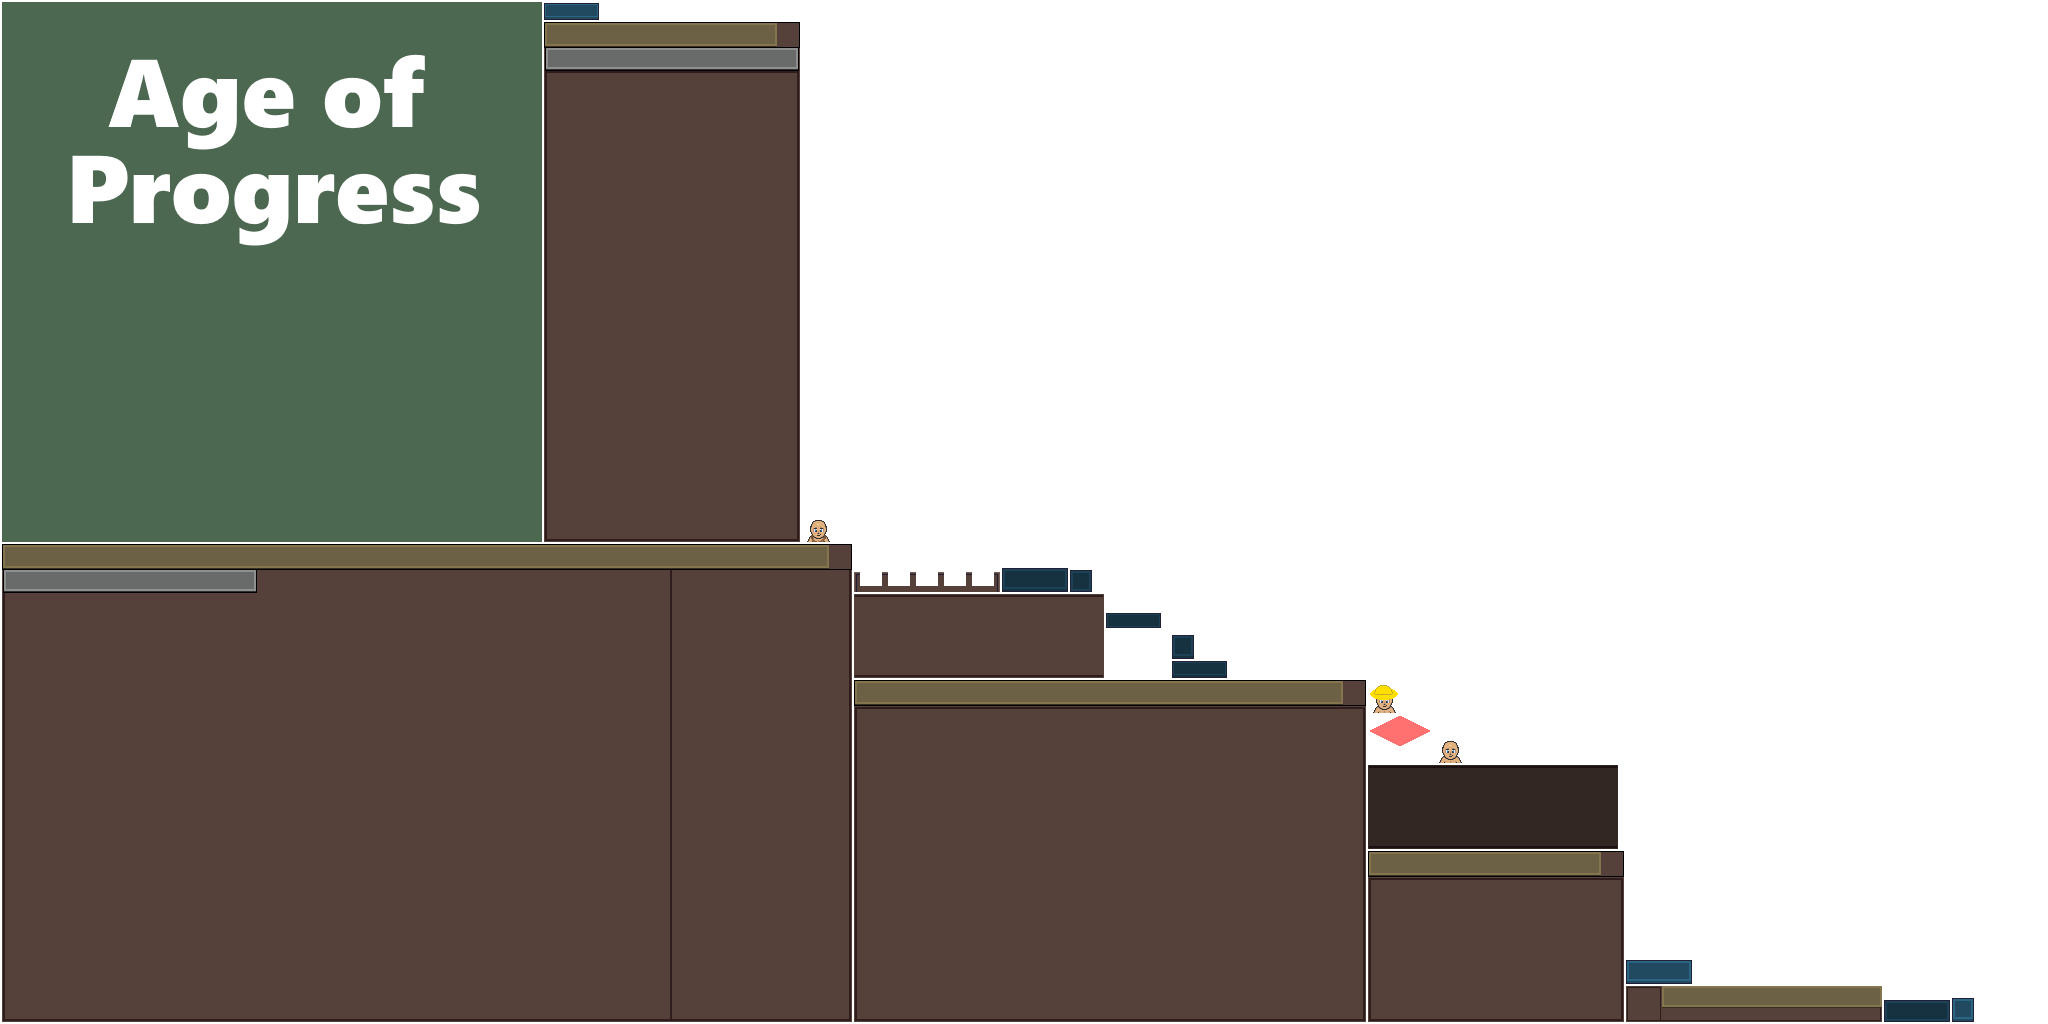
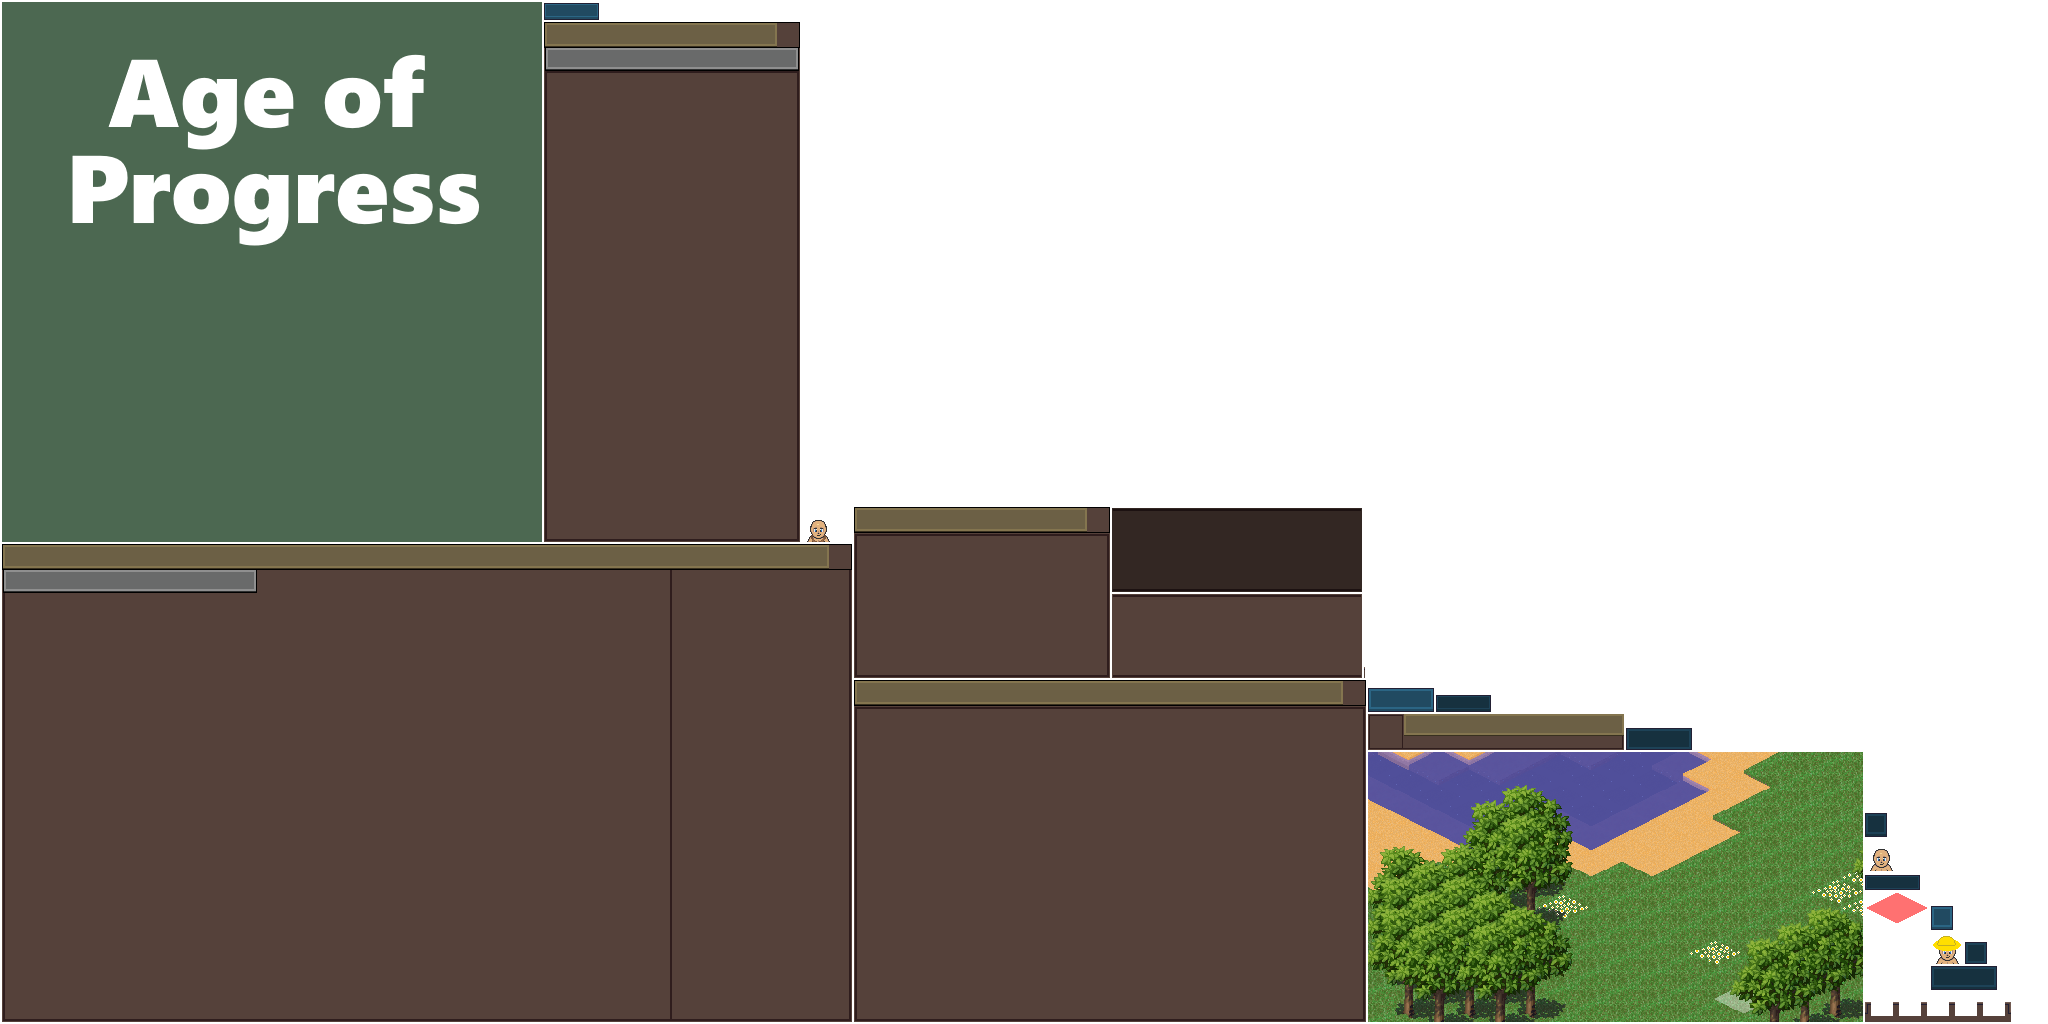
Added Discord Button

Changed region(s): [[0.4062, 0.4688, 1.0, 1.0]]

diff --git a/Age Of Progress/core/src/dev/codewizz/gfx/gui/menus/MainMenu.java b/Age Of Progress/core/src/dev/codewizz/gfx/gui/menus/MainMenu.java
@@ -1,13 +1,16 @@
 package dev.codewizz.gfx.gui.menus;
 
 import java.awt.Rectangle;
+import java.net.URL;
 
 import com.badlogic.gdx.Gdx;
 
 import dev.codewizz.gfx.gui.UIButton;
+import dev.codewizz.gfx.gui.UIIcon;
 import dev.codewizz.gfx.gui.UILayer;
 import dev.codewizz.gfx.gui.UIMenu;
 import dev.codewizz.main.Main;
+import dev.codewizz.utils.Utils;
 import dev.codewizz.world.World;
 
 public class MainMenu extends UIMenu {
@@ -23,7 +26,18 @@ public class MainMenu extends UIMenu {
 		int w = Gdx.graphics.getWidth() - Gdx.graphics.getHeight();
 		int startX = Gdx.graphics.getHeight();
 		
-		
+		UIIcon discordIcon = new UIIcon("discord-icon", UILayer.WIDTH - 22 * UILayer.SCALE - 20, 20, 22, 24,
+				"discord-icon") {
+
+			@Override
+			protected void onDeClick() {
+				try {
+					Utils.openWebpage(new URL("https://discord.com/invite/UFEEWqP98w"));
+				} catch (Exception e) { }
+			}
+
+		};
+		elements.add(discordIcon);
 		
 		elements.add(new UIButton("start-button", startX + w/2 - (99*UILayer.SCALE)/2, Gdx.graphics.getHeight()/2 - (36/2)*UILayer.SCALE + 120*UILayer.SCALE, 99, 36, "Load World") {
 			@Override
@@ -33,10 +47,10 @@ public class MainMenu extends UIMenu {
 				
 				boolean hideButtons = !Main.inst.world.showInfoSartMenu;
 				
-				Main.inst.renderer.ui.getElement("manage-icon").setAvailable(hideButtons);;
-				Main.inst.renderer.ui.getElement("path-icon").setAvailable(hideButtons);;
-				Main.inst.renderer.ui.getElement("people-icon").setAvailable(hideButtons);;
-				Main.inst.renderer.ui.getElement("tool-icon").setAvailable(hideButtons);;
+				Main.inst.renderer.ui.getElement("manage-icon").setAvailable(hideButtons);
+				Main.inst.renderer.ui.getElement("path-icon").setAvailable(hideButtons);
+				Main.inst.renderer.ui.getElement("people-icon").setAvailable(hideButtons);
+				Main.inst.renderer.ui.getElement("tool-icon").setAvailable(hideButtons);
 			}
 		});
 		
@@ -46,10 +60,10 @@ public class MainMenu extends UIMenu {
 				
 				Main.inst.openWorld(new World());
 				
-				Main.inst.renderer.ui.getElement("manage-icon").setAvailable(false);;
-				Main.inst.renderer.ui.getElement("path-icon").setAvailable(false);;
-				Main.inst.renderer.ui.getElement("people-icon").setAvailable(false);;
-				Main.inst.renderer.ui.getElement("tool-icon").setAvailable(false);;
+				Main.inst.renderer.ui.getElement("manage-icon").setAvailable(false);
+				Main.inst.renderer.ui.getElement("path-icon").setAvailable(false);
+				Main.inst.renderer.ui.getElement("people-icon").setAvailable(false);
+				Main.inst.renderer.ui.getElement("tool-icon").setAvailable(false);
 			}
 		});
 		

diff --git a/Age Of Progress/core/src/dev/codewizz/utils/Logger.java b/Age Of Progress/core/src/dev/codewizz/utils/Logger.java
@@ -22,7 +22,7 @@ public class Logger {
 		try {
 			LocalDateTime now = LocalDateTime.now();
 			String date = DATE_FORMAT.format(now);
-			currentFile = Gdx.files.external(Assets.pathFolderLogs + "LOG-" + date + ".txt").file();
+			//currentFile = Gdx.files.external(Assets.pathFolderLogs + "LOG-" + date + ".txt").file();
 			
 			if(currentFile.createNewFile()) {
 				writer = new BufferedWriter(new FileWriter(currentFile));
@@ -33,7 +33,6 @@ public class Logger {
 			}
 		} catch (Exception e) {
 			Logger.error("Couldn't create a log file!");
-			e.printStackTrace();
 		}
 	}
 	
@@ -50,9 +49,9 @@ public class Logger {
 	private static String prefix() {
 		Thread t = Thread.currentThread();
 		LocalTime now = LocalTime.now();
-		String s = t.getStackTrace()[2].getFileName().substring(0, t.getStackTrace()[2].getFileName().length()-5);
+		String s = t.getStackTrace()[3].getFileName().substring(0, t.getStackTrace()[3].getFileName().length()-5);
 		String time = TIME_FORMAT.format(now);
-		return "[" + time + "] [" + t.getName() + ":" + s + ":" + t.getStackTrace()[2].getLineNumber() + "] ";
+		return "[" + time + "] [" + t.getName() + ":" + s + ":" + t.getStackTrace()[3].getLineNumber() + "] ";
 	}
 	
 	public static void error(String message) {

diff --git a/Age Of Progress/core/src/dev/codewizz/utils/Assets.java b/Age Of Progress/core/src/dev/codewizz/utils/Assets.java
@@ -21,14 +21,14 @@ public class Assets {
 	public static File folderSaves;
 	public static File folderData;
 	public static File folderLogs;
+	public static File folderScreenshots;
 	
 	public static final String pathFolderAgeOfProgress = "ageofprogress/";
 	public static final String pathFolderMods = pathFolderAgeOfProgress + "/mods/";
 	public static final String pathFolderSaves = pathFolderAgeOfProgress + "/saves/";
 	public static final String pathFolderData = pathFolderAgeOfProgress + "/data/";
 	public static final String pathFolderLogs = pathFolderData + "/logs/";
-	
-	
+	public static final String pathFolderScreenshots = pathFolderAgeOfProgress + "/screenshots/";
 	
 	public static HashMap<String, Sprite> sprites = new HashMap<>();
 	public static HashMap<String, TextureAtlas> atlasses = new HashMap<>();
@@ -42,6 +42,7 @@ public class Assets {
 			folderSaves = createFolder(pathFolderSaves);
 			folderData = createFolder(pathFolderData);
 			folderLogs = createFolder(pathFolderLogs);
+			folderScreenshots = createFolder(pathFolderScreenshots);
 		} catch(Exception e) {
 			Logger.error("Couldn't find main game files: ");
 			Logger.error("Game will load, but saves, settings and mods will not be loaded.");

diff --git a/Age Of Progress/core/src/dev/codewizz/input/KeyInput.java b/Age Of Progress/core/src/dev/codewizz/input/KeyInput.java
@@ -12,6 +12,7 @@ import com.badlogic.gdx.graphics.Pixmap;
 import com.badlogic.gdx.graphics.PixmapIO;
 
 import dev.codewizz.main.Main;
+import dev.codewizz.utils.Assets;
 import dev.codewizz.world.GameObject;
 import dev.codewizz.world.World;
 import dev.codewizz.world.items.Recipe;
@@ -117,7 +118,7 @@ public class KeyInput implements InputProcessor {
 		
 		
 		// create a screenshot
-		if(key == Input.Keys.C) {
+		if(key == Input.Keys.F2) {
 			Pixmap pixmap = Pixmap.createFromFrameBuffer(0, 0, Gdx.graphics.getBackBufferWidth(), Gdx.graphics.getBackBufferHeight());
 			ByteBuffer pixels = pixmap.getPixels();
 
@@ -130,7 +131,7 @@ public class KeyInput implements InputProcessor {
 			DateTimeFormatter dtf = DateTimeFormatter.ofPattern("yyyy-MM-dd-HH-mm-ss");  
 			LocalDateTime now = LocalDateTime.now();  
 			
-			PixmapIO.writePNG(Gdx.files.external("\\Desktop\\Java Coding\\Eclipse\\Age-of-Progress\\LibGDX\\sc_" + dtf.format(now) + ".png"), pixmap, Deflater.DEFAULT_COMPRESSION, true);
+			PixmapIO.writePNG(Gdx.files.external(Assets.pathFolderScreenshots + "sc_" + dtf.format(now) + ".png"), pixmap, Deflater.DEFAULT_COMPRESSION, true);
 			pixmap.dispose();
 
 			return true;

diff --git a/Age Of Progress/core/src/dev/codewizz/utils/Utils.java b/Age Of Progress/core/src/dev/codewizz/utils/Utils.java
@@ -1,6 +1,10 @@
 package dev.codewizz.utils;
 
+import java.awt.Desktop;
 import java.io.File;
+import java.net.URI;
+import java.net.URISyntaxException;
+import java.net.URL;
 import java.nio.file.Files;
 import java.nio.file.Paths;
 import java.util.Random;
@@ -143,5 +147,27 @@ public class Utils {
 		}
 		
 		return extension;
+	}
+	
+	public static boolean openWebpage(URI uri) {
+	    Desktop desktop = Desktop.isDesktopSupported() ? Desktop.getDesktop() : null;
+	    if (desktop != null && desktop.isSupported(Desktop.Action.BROWSE)) {
+	        try {
+	            desktop.browse(uri);
+	            return true;
+	        } catch (Exception e) {
+	            e.printStackTrace();
+	        }
+	    }
+	    return false;
+	}
+
+	public static boolean openWebpage(URL url) {
+	    try {
+	        return openWebpage(url.toURI());
+	    } catch (URISyntaxException e) {
+	        e.printStackTrace();
+	    }
+	    return false;
 	}
 }

diff --git a/Age Of Progress/core/src/dev/codewizz/main/Main.java b/Age Of Progress/core/src/dev/codewizz/main/Main.java
@@ -4,6 +4,7 @@ import com.badlogic.gdx.ApplicationAdapter;
 import com.badlogic.gdx.Gdx;
 import com.badlogic.gdx.InputMultiplexer;
 import com.badlogic.gdx.utils.ScreenUtils;
+import com.kotcrab.vis.ui.VisUI;
 
 import dev.codewizz.gfx.Renderer;
 import dev.codewizz.gfx.gui.layers.GameLayer;
@@ -48,6 +49,8 @@ public class Main extends ApplicationAdapter {
 		
 		Assets.create();
 		
+		VisUI.load();
+		
 		camera = new Camera();
 		renderer = new Renderer();
 		mouseInput = new MouseInput();
@@ -64,6 +67,8 @@ public class Main extends ApplicationAdapter {
 		handler.start();
 		
 		Logger.log("Start time: " + (float)(System.currentTimeMillis() - start) / 1000.0f + " Seconds");
+
+		
 	}
 	
 	public void setInputMultiplexer() {
@@ -147,7 +152,8 @@ public class Main extends ApplicationAdapter {
 	
 	@Override
 	public void dispose () {
-		Assets.dispose();
+		VisUI.dispose();
 		renderer.dispose();
+		Assets.dispose();
 	}
 }

diff --git a/Age Of Progress/core/src/dev/codewizz/utils/quadtree/QuadTree.java b/Age Of Progress/core/src/dev/codewizz/utils/quadtree/QuadTree.java
@@ -172,10 +172,12 @@ public class QuadTree<T> {
             @Override
             public void call(QuadTree<T> quadTree, Node<T> node) {
                 Point<T> pt = node.getPoint();
-                if (pt.getX() < xmin || pt.getX() > xmax || pt.getY() < ymin || pt.getY() > ymax) {
-                    // Definitely not within the polygon!
-                } else {
-                    arr.add(node.getPoint());
+                if(pt != null) {
+                	 if (pt.getX() < xmin || pt.getX() > xmax || pt.getY() < ymin || pt.getY() > ymax) {
+                         // Definitely not within the polygon!
+                     } else {
+                         arr.add(node.getPoint());
+                     }
                 }
 
             }

diff --git a/Age Of Progress/core/src/dev/codewizz/gfx/gui/layers/GameLayer.java b/Age Of Progress/core/src/dev/codewizz/gfx/gui/layers/GameLayer.java
@@ -1,5 +1,6 @@
 package dev.codewizz.gfx.gui.layers;
 
+import com.badlogic.gdx.Gdx;
 import com.badlogic.gdx.graphics.g2d.SpriteBatch;
 
 import dev.codewizz.gfx.gui.UIElement;
@@ -128,6 +129,7 @@ public class GameLayer extends UILayer {
 
 		// BACKGROUND
 		elements.add(new UIImage("icon-background", (WIDTH / 2) - (146 * SCALE) / 2, 0, 146, 30, "icon-board"));
+		elements.add(new UIImage("icon-background-extension", 0, 0, Gdx.graphics.getWidth() / 3, 30, "icon-board-extension"));
 
 		// PATH MENU
 		pathingMenu = new PathingMenu("pathingMenu", 0, 0, 128, 260, this);

diff --git a/Age Of Progress/core/src/dev/codewizz/gfx/gui/layers/MainMenuLayer.java b/Age Of Progress/core/src/dev/codewizz/gfx/gui/layers/MainMenuLayer.java
@@ -21,7 +21,7 @@ public class MainMenuLayer extends UILayer {
 		settingsMenu = new SettingsMainMenu("settings-menu-menu", 0, 0, 1920, 1080, this);
 		settingsMenu.disable();
 		elements.add(settingsMenu);
-		
-		elements.add(new UIImage("main-menu", 0, 0, Gdx.graphics.getHeight(), Gdx.graphics.getHeight(), "main-menu", 1));
+
+		elements.add(new UIImage("main-menu-background", 0, 0, Gdx.graphics.getWidth(), Gdx.graphics.getHeight(), "main-menu-background", 1));
 	}
 }

diff --git a/Age Of Progress/core/src/dev/codewizz/world/pathfinding/Agent.java b/Age Of Progress/core/src/dev/codewizz/world/pathfinding/Agent.java
@@ -94,7 +94,7 @@ public class Agent {
 		for (int i = 1; i < graphPath.getCount(); i++) {
 			
 			
-			if(graphPath.get(i).tile.getId().equals("aop:water") || graphPath.get(i).tile.getId().equals("aop:deep-water")) {
+			if(graphPath.get(i).tile.getId().equals("aop:water-tile") || graphPath.get(i).tile.getId().equals("aop:deep-water-tile")) {
 				stop();
 				return false;
 			}

diff --git a/Age Of Progress/core/src/dev/codewizz/world/World.java b/Age Of Progress/core/src/dev/codewizz/world/World.java
@@ -43,9 +43,6 @@ public class World {
 	public static final int WORLD_SIZE_H = 128;
 	public static final int WORLD_SIZE_WP = WORLD_SIZE_W * 64;
 	public static final int WORLD_SIZE_HP = WORLD_SIZE_H * 64;
-	public static final int RADIUS = 2;
-	public static final int MAX_RIVER_LENGTH = 1000;
-	public static final float E = 0.5f;
 
 	public static int gameSpeed = 3;
 

diff --git a/Age Of Progress/core/src/dev/codewizz/world/pathfinding/CellGraph.java b/Age Of Progress/core/src/dev/codewizz/world/pathfinding/CellGraph.java
@@ -58,6 +58,13 @@ public class CellGraph implements IndexedGraph<Cell> {
 	}
 	
 	public void removeConnections(Cell fromNode) {
+		
+		for(int i = 0; i < fromNode.connectedTo.length; i++) {
+			fromNode.connectedTo[i] = false;
+			fromNode.acceptConnections[i] = false;
+		}
+		
+		
 		linkMap.remove(fromNode);
 		links.remove(fromNode);
 	}
